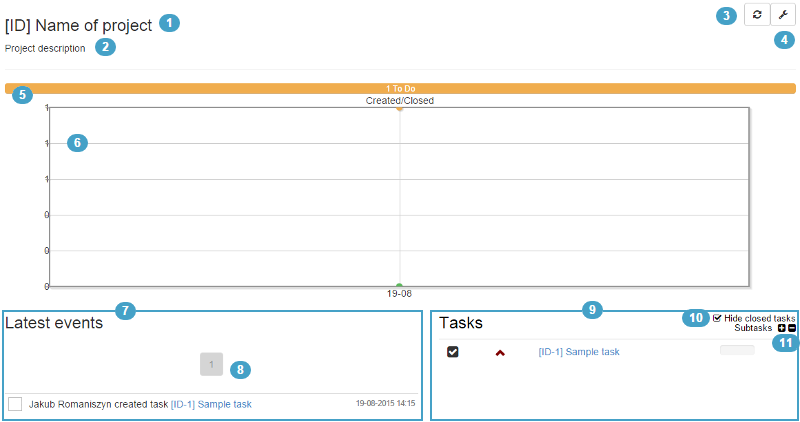
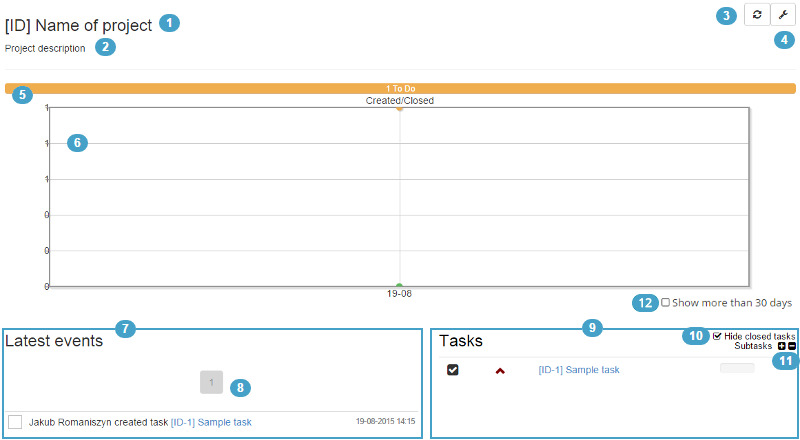
TASQ-187: Show only 30 days on project tasks create/close chart. Checkbox to show all events

diff --git a/src/main/java/com/qprogramming/tasq/task/worklog/WorkLogService.java b/src/main/java/com/qprogramming/tasq/task/worklog/WorkLogService.java
@@ -262,8 +262,14 @@ public class WorkLogService {
 		return wlRepo.findByProjectId(id, p);
 	}
 
-	public List<WorkLog> findProjectCreateCloseEvents(Project project) {
-		List<WorkLog> list = wlRepo.findByProjectIdOrderByTimeAsc(project.getId());
+	public List<WorkLog> findProjectCreateCloseEvents(Project project, boolean all) {
+		DateTime beginDate = new DateTime().minusDays(30);
+		List<WorkLog> list = new LinkedList<WorkLog>();
+		if (all) {
+			list = wlRepo.findByProjectIdOrderByTimeAsc(project.getId());
+		} else {
+			list = wlRepo.findByProjectIdAndTimeBetweenOrderByTimeAsc(project.getId(), beginDate.toDate(), new Date());
+		}
 		List<WorkLog> result = new LinkedList<WorkLog>();
 		for (WorkLog workLog : list) {
 			if (LogType.CREATE.equals(workLog.getType()) || LogType.REOPEN.equals(workLog.getType())
@@ -327,9 +333,10 @@ public class WorkLogService {
 	 * @param task
 	 */
 	public void changeState(TaskState oldState, TaskState newState, Task task) {
-//		StringBuilder message = new StringBuilder(Utils.TABLE);
-//		message.append(Utils.changedFromTo(null, oldState.getDescription(), newState.getDescription()));
-//		message.append(Utils.TABLE_END);
+		// StringBuilder message = new StringBuilder(Utils.TABLE);
+		// message.append(Utils.changedFromTo(null, oldState.getDescription(),
+		// newState.getDescription()));
+		// message.append(Utils.TABLE_END);
 		addActivityLog(task, Utils.changedFromTo(oldState.getDescription(), newState.getDescription()), LogType.STATUS);
 
 	}

diff --git a/src/main/java/com/qprogramming/tasq/projects/ProjectController.java b/src/main/java/com/qprogramming/tasq/projects/ProjectController.java
@@ -388,13 +388,14 @@ public class ProjectController {
 	}
 
 	@RequestMapping(value = "/project/getChart", method = RequestMethod.GET)
-	public @ResponseBody ProjectChart getProjectChart(@RequestParam Long id, HttpServletResponse response) {
+	public @ResponseBody ProjectChart getProjectChart(@RequestParam Long id,
+			@RequestParam(required = false) boolean all, HttpServletResponse response) {
 		response.setContentType("application/json");
 		Project project = projSrv.findById(id);
 		Map<String, Integer> created = new HashMap<String, Integer>();
 		Map<String, Integer> closed = new HashMap<String, Integer>();
 		ProjectChart result = new ProjectChart();
-		List<WorkLog> events = wrkLogSrv.findProjectCreateCloseEvents(project);
+		List<WorkLog> events = wrkLogSrv.findProjectCreateCloseEvents(project, all);
 		// Fill maps
 		for (WorkLog workLog : events) {
 			// Don't calculate for subtask ( not important )

diff --git a/src/test/java/com/qprogramming/tasq/project/ProjectControllerTest.java b/src/test/java/com/qprogramming/tasq/project/ProjectControllerTest.java
@@ -227,10 +227,10 @@ public class ProjectControllerTest {
 		list.add(w4);
 		Page<WorkLog> page = new PageImpl<WorkLog>(list);
 		when(wrkLogSrv.findByProjectId(anyLong(), any(Pageable.class))).thenReturn(page);
-		when(wrkLogSrv.findProjectCreateCloseEvents(project)).thenReturn(list);
+		when(wrkLogSrv.findProjectCreateCloseEvents(project, false)).thenReturn(list);
 		Pageable p = new PageRequest(0, 5, new Sort(Sort.Direction.ASC, "time"));
 		Page<DisplayWorkLog> result = projectCtr.getProjectEvents(1L, p);
-		ProjectChart chart = projectCtr.getProjectChart(1L, responseMock);
+		ProjectChart chart = projectCtr.getProjectChart(1L, false, responseMock);
 		String today = new LocalDate().toString();
 		Assert.assertEquals(Integer.valueOf(1), chart.getClosed().get(today));
 		Assert.assertEquals(Integer.valueOf(5), chart.getCreated().get(today));

diff --git a/src/test/java/com/qprogramming/tasq/task/worklog/WorkLogTest.java b/src/test/java/com/qprogramming/tasq/task/worklog/WorkLogTest.java
@@ -262,7 +262,7 @@ public class WorkLogTest {
 		list.add(worklog7);
 		list.add(worklog8);
 		when(wlRepoMock.findByProjectIdOrderByTimeAsc(anyLong())).thenReturn(list);
-		List<WorkLog> result = wlSrv.findProjectCreateCloseEvents(project);
+		List<WorkLog> result = wlSrv.findProjectCreateCloseEvents(project,false);
 		Assert.assertEquals(3, result.size());
 	}
 
